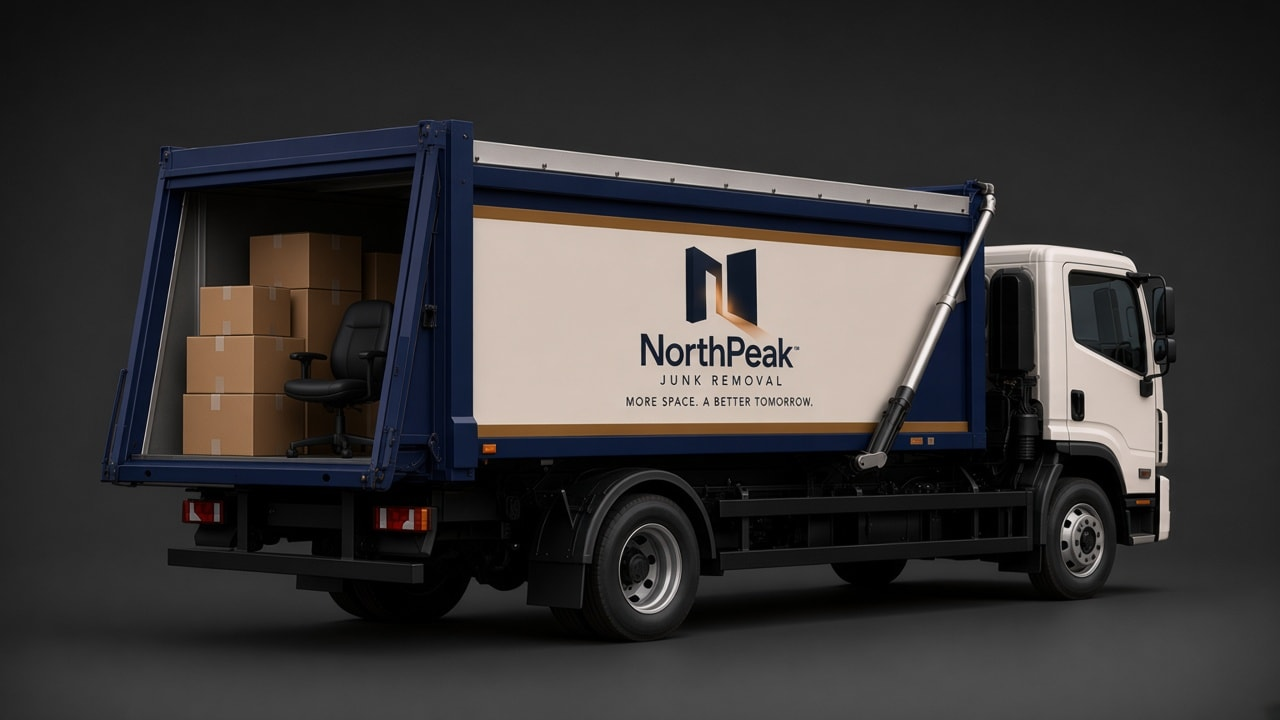
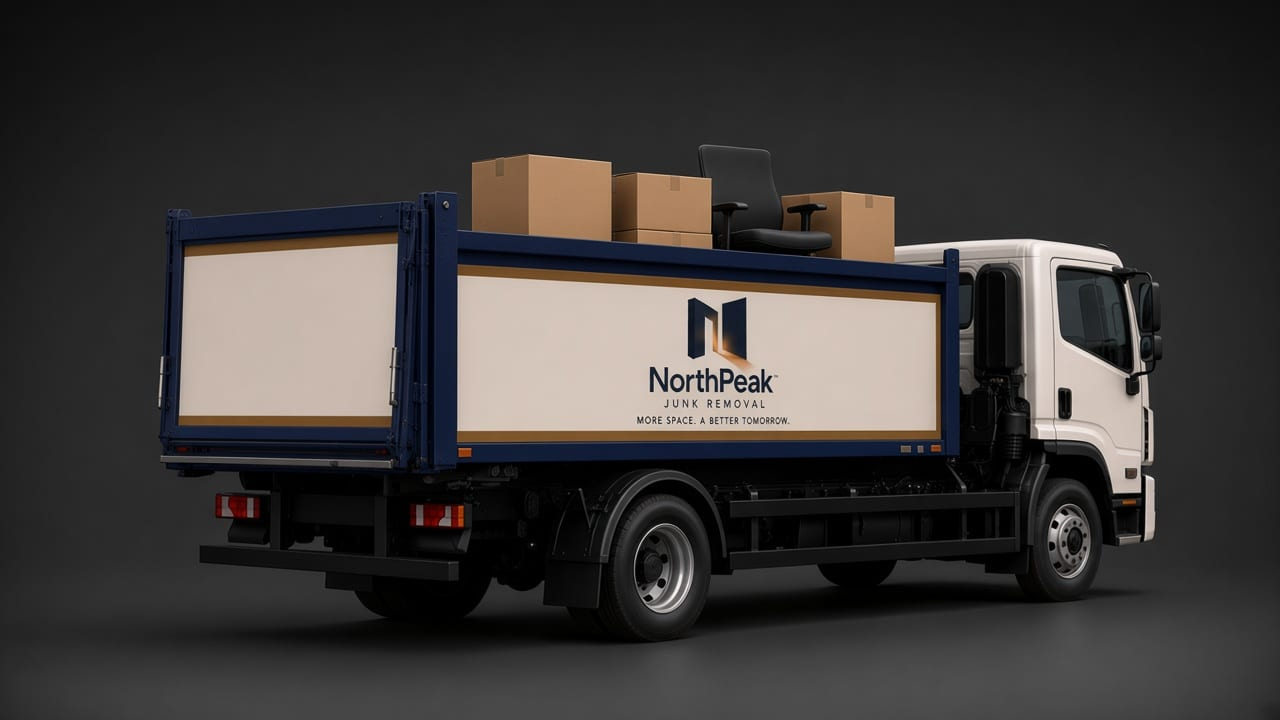
Update truck fill images with flush rear tailgate and improve image loading.
Replace 25–100% fill assets to match the 0% tailgate style, bump cache to v4, and let Next.js optimize truck/hero images for faster loads.

diff --git a/src/content/truck.ts b/src/content/truck.ts
@@ -40,7 +40,7 @@ export const volumeLevels: VolumeLevel[] = [
     fill: 25,
     cubicFeet: 40,
     visitLabel: "Short visit",
-    fillSrc: "/truck/junk-fill-25.jpg?v=3",
+    fillSrc: "/truck/junk-fill-25.jpg?v=4",
   },
   {
     id: "room",
@@ -49,7 +49,7 @@ export const volumeLevels: VolumeLevel[] = [
     fill: 50,
     cubicFeet: 110,
     visitLabel: "Standard visit",
-    fillSrc: "/truck/junk-fill-50.jpg?v=3",
+    fillSrc: "/truck/junk-fill-50.jpg?v=4",
   },
   {
     id: "garage",
@@ -58,7 +58,7 @@ export const volumeLevels: VolumeLevel[] = [
     fill: 75,
     cubicFeet: 200,
     visitLabel: "Full crew visit",
-    fillSrc: "/truck/junk-fill-75.jpg?v=3",
+    fillSrc: "/truck/junk-fill-75.jpg?v=4",
   },
   {
     id: "home",
@@ -67,7 +67,7 @@ export const volumeLevels: VolumeLevel[] = [
     fill: 100,
     cubicFeet: 300,
     visitLabel: "Extended visit",
-    fillSrc: "/truck/junk-fill-100.jpg?v=3",
+    fillSrc: "/truck/junk-fill-100.jpg?v=4",
   },
 ];
 

diff --git a/src/components/home/Hero.tsx b/src/components/home/Hero.tsx
@@ -50,7 +50,7 @@ export function Hero() {
           alt="NorthPeak crew loading a cab-over truck against the North Shore mountains"
           fill
           priority
-          quality={92}
+          quality={85}
           sizes="100vw"
           className="hidden object-cover object-[58%_center] lg:block"
         />
@@ -59,7 +59,7 @@ export function Hero() {
           alt=""
           fill
           priority
-          quality={92}
+          quality={85}
           sizes="100vw"
           className="object-cover object-[center_20%] lg:hidden"
           aria-hidden

diff --git a/src/components/estimate/TruckVolumePad.tsx b/src/components/estimate/TruckVolumePad.tsx
@@ -71,9 +71,9 @@ export function TruckVolumePad({
           src={displaySrc}
           alt=""
           fill
-          unoptimized
           sizes="(min-width: 768px) 55vw, 100vw"
-          priority
+          quality={80}
+          fetchPriority="low"
           className="object-contain object-center transition-opacity duration-200"
           draggable={false}
         />
